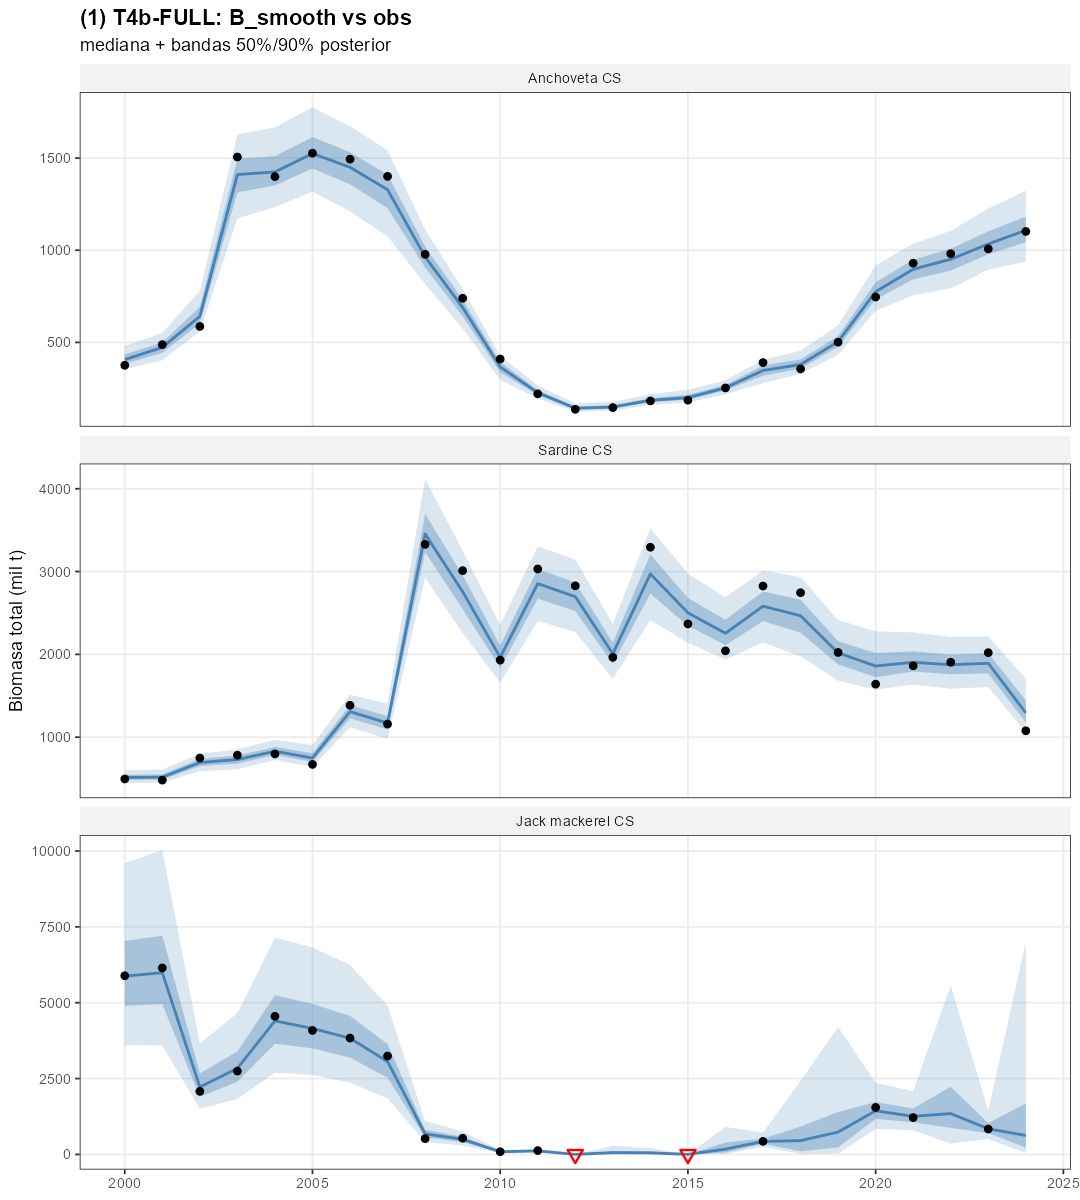
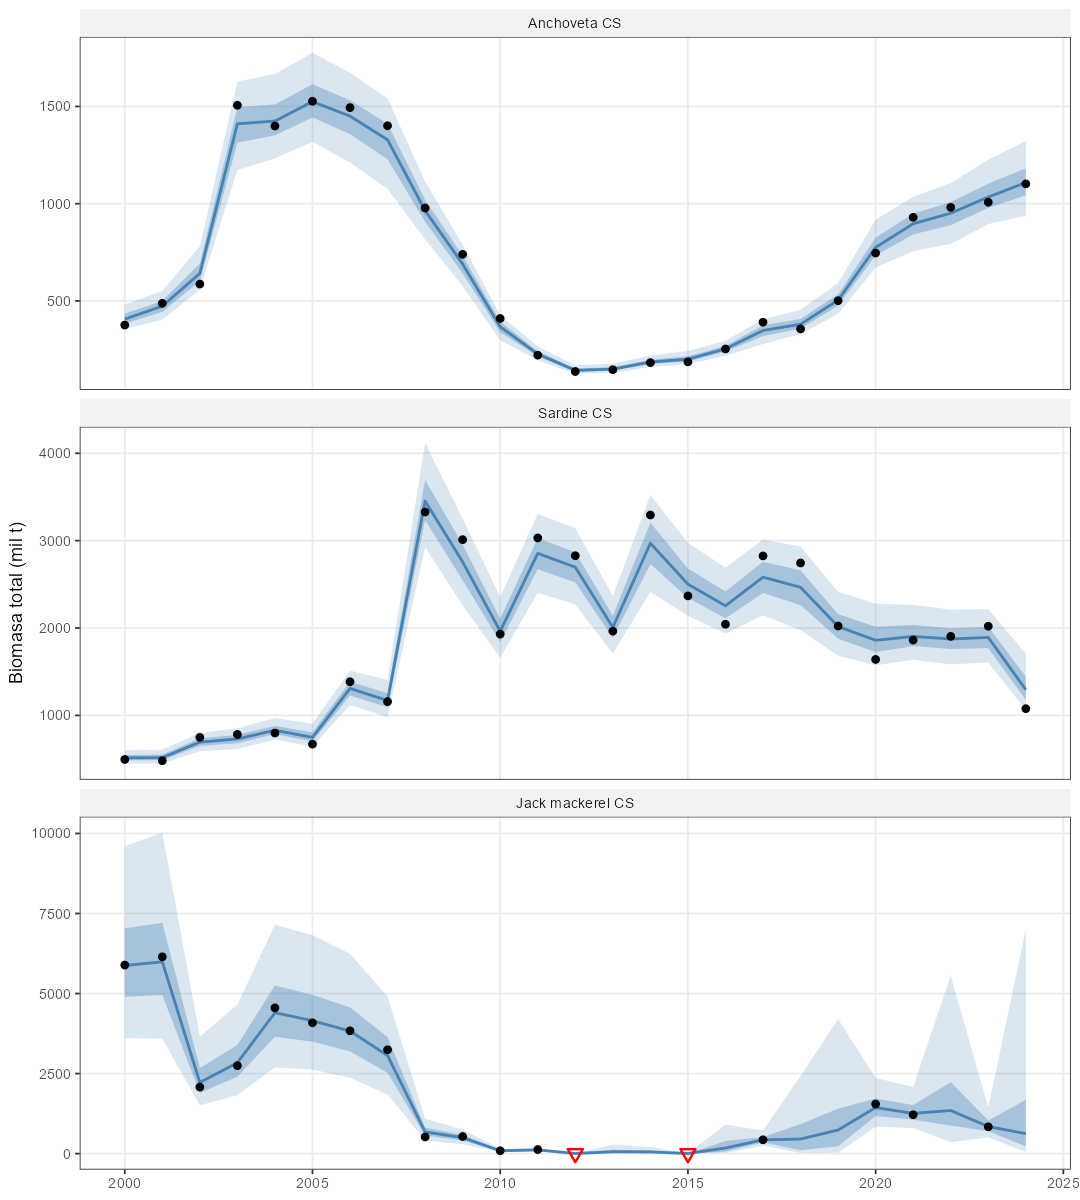
Polish pass: simplify language, unify stock names, restructure Appendix E, add Tabla A.1 priors
[mensaje largo de antes]

diff --git a/paper1/paper1_supplementary_materials.tex b/paper1/paper1_supplementary_materials.tex
@@ -178,7 +178,7 @@ constrained to \([-3, 3]\),\footnote{The bound is a biologically extreme upper
   by roughly \(95\%\).} minimising median absolute percent error (MAPE).
 The structural priors draw on the FishLife meta-analysis for
 intrinsic growth rates (\citeproc{ref-Thorson2020-fishlife}{Thorson 2020}), the IFOP V--X
-stock-assessment informes for anchovy and sardine carrying
+stock-assessment informes for anchoveta and sardine carrying
 capacity (\citeproc{ref-IFOP2024-anchoveta-vx}{Instituto de Fomento Pesquero 2024}, \citeproc{ref-IFOP2022-sardina-vx}{2022}), and the
 range-wide SPRFMO assessment for jack mackerel (\citeproc{ref-SPRFMO2025-sc13}{South Pacific Regional Fisheries Management Organisation 2025}).
 
@@ -191,13 +191,13 @@ range-wide SPRFMO assessment for jack mackerel (\citeproc{ref-SPRFMO2025-sc13}{S
 \toprule
 Stock & $r_s^{0}$ (yr$^{-1}$) & $K_s$ (kt) & $B_{0,s}$ (kt) \\
 \midrule
-Anchovy              & $\log\mathcal{N}(0.6,\,0.25)$   & $\log\mathcal{N}(2{,}200,\,0.15)$ & $\log\mathcal{N}(376,\,0.10)$   \\
+Anchoveta              & $\log\mathcal{N}(0.6,\,0.25)$   & $\log\mathcal{N}(2{,}200,\,0.15)$ & $\log\mathcal{N}(376,\,0.10)$   \\
 Sardine         & $\log\mathcal{N}(0.9,\,0.25)$   & $\log\mathcal{N}(3{,}000,\,0.15)$ & $\log\mathcal{N}(496,\,0.10)$   \\
 Jack mackerel          & $\log\mathcal{N}(0.35,\,0.25)$  & $\log\mathcal{N}(8{,}000,\,0.25)$ & $\log\mathcal{N}(5{,}889,\,0.15)$ \\
 \bottomrule
 \end{tabular}
 \begin{tablenotes}[para,flushleft]\footnotesize
-\item \emph{Notes.} Intrinsic growth-rate priors ($r_s^{0}$) follow Thorson's FishLife meta-analysis. Carrying capacity ($K_s$) for anchovy and sardine is derived from the unfished spawning biomass $B_{D0}$ reported in the IFOP V--X stock-assessment informes (anchovy 2024, sardine 2022), scaled to total biomass; for jack mackerel, $K_s$ is re-scaled from the range-wide SPRFMO 2025 assessment. Initial-biomass priors ($B_{0,s}$) are not virgin biomass: they represent the state-space initial condition at $t=2000$ and are centred at the first observed value in the window (total biomass for the coastal stocks, IFOP acoustic survey for jack mackerel). This empirical-Bayes choice is necessary for identification of the initial state under $N=25$ annual observations; see Online Appendix A.2.
+\item \emph{Notes.} Intrinsic growth-rate priors ($r_s^{0}$) follow Thorson's FishLife meta-analysis. Carrying capacity ($K_s$) for anchoveta and sardine is derived from the unfished spawning biomass $B_{D0}$ reported in the IFOP V--X stock-assessment informes (anchoveta 2024, sardine 2022), scaled to total biomass; for jack mackerel, $K_s$ is re-scaled from the range-wide SPRFMO 2025 assessment. Initial-biomass priors ($B_{0,s}$) are not virgin biomass: they represent the state-space initial condition at $t=2000$ and are centred at the first observed value in the window (total biomass for the coastal stocks, IFOP acoustic survey for jack mackerel). This empirical-Bayes choice is necessary for identification of the initial state under $N=25$ annual observations; see Online Appendix A.2.
 \end{tablenotes}
 \end{threeparttable}
 \end{table}
@@ -217,7 +217,7 @@ only, \(+\log\)CHL only, and joint \(+\)SST\(+\log\)CHL.
 \toprule
 Stock & Base & + SST & + log CHL & + SST and log CHL\\
 \midrule
-Anchovy & 95.9 & 30.8 & 95.1 & 26.6\\
+Anchoveta & 95.9 & 30.8 & 95.1 & 26.6\\
 Sardine & 98.5 & 23.1 & 98.5 & 20.5\\
 Jack mackerel & 44.2 & 44.3 & 49.1 & 48.5\\
 \bottomrule
@@ -226,13 +226,13 @@ Jack mackerel & 44.2 & 44.3 & 49.1 & 48.5\\
 
 No variant brings any of the three stocks below a \(20\%\) MAPE
 threshold. The two coastal stocks benefit from activating SST
-(anchovy: \(95.9\%\to 30.8\%\), sardine: \(98.5\%\to 23.1\%\)), with
+(anchoveta: \(95.9\%\to 30.8\%\), sardine: \(98.5\%\to 23.1\%\)), with
 the joint specification delivering further marginal improvement.
 Jack mackerel hindcast errors remain in the \(44\)--\(49\%\) range across
 all variants, with no shifter distinguishably better than the base.
 
 The point estimates from the joint variant are interpretable for the
-coastal stocks. For anchovy both shifters are negative
+coastal stocks. For anchoveta both shifters are negative
 (\(\rho^{SST} \approx -2.3\), \(\rho^{CHL} \approx -2.3\)); for sardine
 \(\rho^{SST} \approx -2.0\) is negative but \(\rho^{CHL} \approx +2.1\)
 is positive---the opposite sign on CHL across
@@ -263,19 +263,19 @@ one decimal place; jack mackerel priors are centred at zero so that posterior
 identification is driven by the structural likelihood rather than by
 the boundary solution. All priors are independent normal with unit
 standard deviation. We do not impose hierarchical pooling across
-species because \(\rho^{CHL}\) has opposite signs for anchovy and
+species because \(\rho^{CHL}\) has opposite signs for anchoveta and
 sardine---pooling would shrink the two estimates toward a common
 center and erase this ecological distinction.
 
 This prior-elicitation strategy is a form of empirical Bayes: the
-prior centres for anchovy and sardine come from the same \(2000\)--\(2024\)
+prior centres for anchoveta and sardine come from the same \(2000\)--\(2024\)
 biomass series that enters the likelihood. Standard Bayesian practice
 keeps prior and data independent; we accept this departure because
 with \(N=25\) annual observations it is necessary for identification.
 
 We adopt this trade-off deliberately for two reasons. First, the prior
 \(\sigma = 1\) is wide enough that the data move the posterior
-substantially when informative: for anchovy, the posterior of
+substantially when informative: for anchoveta, the posterior of
 \(\rho^{CHL}\) migrates to \(-3.64\), more than one prior standard
 deviation away from the prior centre of \(-2.3\) (see the
 posterior-identification table of the main text for full posterior
@@ -296,7 +296,7 @@ substantive finding, not a numerical artefact.
 \toprule
 Stock & $\mu_{\rho^{SST}}$ & $\sigma_{\rho^{SST}}$ & $\mu_{\rho^{CHL}}$ & $\sigma_{\rho^{CHL}}$ & Source\\
 \midrule
-Anchovy & -2.3 & 1.0 & -2.3 & 1.0 & Joint MLE\\
+Anchoveta & -2.3 & 1.0 & -2.3 & 1.0 & Joint MLE\\
 Sardine & -2.0 & 1.0 & +2.1 & 1.0 & Joint MLE\\
 Jack mackerel & 0.0 & 1.0 & 0.0 & 1.0 & Boundary solution; vague prior\\
 \bottomrule
@@ -410,8 +410,7 @@ observations in \(2012\) and \(2015\)).
 \centering
 \includegraphics[width=0.95\textwidth]{../figs/t4b/t4b_full_residuals.png}
 \caption{Standardised year-level residuals of the full specification by
-stock. The Ljung--Box test of residual autocorrelation does not reject
-the null at conventional levels for any of the three stocks.\label{fig:ppc-residuals}}
+stock.\label{fig:ppc-residuals}}
 \end{figure}
 
 \section{Markov-chain convergence diagnostics}\label{appendix-convergence}
@@ -449,7 +448,7 @@ $\Omega$ (off-diagonal) & 3 & 1.001 & 5,732 & 8,544\\
 \end{tabular}
 \begin{tablenotes}
 \item \textit{Note:} 
-\item Diagnostics are computed from four chains of 2,000 post-warmup iterations. Within each parameter family, the table reports the worst case across the three stocks (or the three off-diagonal entries of Omega): the largest split-Rhat and the smallest bulk- and tail-effective sample sizes. The diagonal of Omega is fixed at one and is therefore excluded. The conventional thresholds are Rhat <= 1.01 and ESS >= 400 for all top-level parameters.
+\item Within each parameter family, entries report the worst case across stocks (or off-diagonal Omega entries): largest Rhat and smallest bulk- and tail-ESS. Omega diagonal (fixed at 1) is excluded. Conventional thresholds: Rhat <= 1.01, ESS >= 400.
 \end{tablenotes}
 \end{threeparttable}
 \end{table}
@@ -483,7 +482,7 @@ the residual noise (combining process and observation noise), \(N=24\)
 lag-one observations, and \(K=3\) regressors.
 
 At posterior medians, the residual noise is \(\sigma_{\text{resid}}=0.28\)
-for anchovy, \(0.25\) for sardine, and \(1.28\) for jack mackerel---roughly \(4.6\)
+for anchoveta, \(0.25\) for sardine, and \(1.28\) for jack mackerel---roughly \(4.6\)
 times higher for jack mackerel than for the coastal stocks. This is the main
 reason the prior dominates the jack mackerel posterior in the full state-space
 fit. Table \ref{tab:appE-power} reports the detectable \(|\rho|_{\min}\)
@@ -511,7 +510,7 @@ evaluated at posterior medians.\label{tab:appE-power}}
 \toprule
 Stock & $\sigma_{\text{resid}}$ & $|\rho_{SST}|_{\min}$ & $|\rho_{\log\text{CHL}}|_{\min}$ & $|\rho_{\text{ENSO}}|_{\min}$ \\
 \midrule
-Anchovy & $0.28$ & $0.33$ & $0.29$ & ---     \\
+Anchoveta & $0.28$ & $0.33$ & $0.29$ & ---     \\
 Sardine & $0.25$ & $0.29$ & $0.26$ & ---     \\
 Jack mackerel & $1.28$ & $1.50$ & $1.32$ & $0.71$ \\
 \bottomrule
@@ -566,7 +565,7 @@ shifter.
 
 \emph{Joint specification.} All three shifters (local SST, local
 \(\log\)\textasciitilde CHL, basin-scale ENSO at lag\textasciitilde1) are estimated simultaneously
-for jack mackerel, holding anchovy and sardine at the main
+for jack mackerel, holding anchoveta and sardine at the main
 specification.
 
 \begin{table}[H]
@@ -588,7 +587,7 @@ Joint specification & Local SST + local $\log$~CHL + ENSO (lag~1) & $1.03$  & $1
 \bottomrule
 \end{tabular}
 \begin{tablenotes}[flushleft]\footnotesize
-\item \emph{Notes.} All entries are $\sigma_{\text{post}}/\sigma_{\text{prior}}$. Anchovy and sardine ratios remain stable at $0.43$--$0.83$ across all configurations.
+\item \emph{Notes.} All entries are $\sigma_{\text{post}}/\sigma_{\text{prior}}$. Anchoveta and sardine ratios remain stable at $0.43$--$0.83$ across all configurations.
 \end{tablenotes}
 \end{threeparttable}
 \end{table}
@@ -597,7 +596,7 @@ All five tests deliver a posterior-to-prior ratio between \(0.94\) and
 \(1.03\) for the jack mackerel shifters. The ratio measures how much the
 data shrink the prior: a value near \(1\) means the posterior is no
 narrower than the prior (no information), and a value below \(1\) means
-the data refine the prior. For comparison, the anchovy and sardine
+the data refine the prior. For comparison, the anchoveta and sardine
 shifters identified in the main text have ratios between \(0.43\) and
 \(0.83\), with posterior medians moving substantially away from their
 prior centres. For jack mackerel, the ratios near unity imply that the
@@ -632,42 +631,42 @@ convention adopted throughout the main text.
 
 This appendix documents the realised inter-sectoral quota cession flow over \(2013\)--\(2024\), the single administrative re-allocation channel admitted by the de jure fractioning regime. We extract assigned, ceded, effective, and captured tonnage by sector for each species--year from the annual SERNAPESCA quota control reports.
 
-Two qualitative facts emerge from the consolidated \(2013\)--\(2024\) series, separated by species pattern: anchovy and sardine in Table \ref{tab:cesiones-anchsard}, jack mackerel in Table \ref{tab:cesiones-jurel}. First, in the anchovy and sardine fisheries the industrial sector cedes a large share of its assigned TAC to artisanal cessionaries in every year of the window: the share transferred ranges from \(12\%\) to \(72\%\) over \(2013\)--\(2017\) and tightens to \(85\%\)--\(\sim\!100\%\) over \(2018\)--\(2024\), scaling with the TAC from \(26\) to \(50\) kt per year in anchovy and \(51\) to \(77\) kt per year in sardine. Second, in the jack mackerel fishery the cession flow is an order of magnitude smaller relative to the assigned TAC---never exceeding \(14\%\) in any year and falling below \(5\%\) in eight of the twelve years---and reverses direction across years.
+Two qualitative facts emerge from the consolidated \(2013\)--\(2024\) series, separated by species pattern: anchoveta and sardine in Table \ref{tab:cesiones-anchsard}, jack mackerel in Table \ref{tab:cesiones-jurel}. First, in the anchoveta and sardine fisheries the industrial sector cedes a large share of its assigned TAC to artisanal cessionaries in every year of the window: the share transferred ranges from \(12\%\) to \(72\%\) over \(2013\)--\(2017\) and tightens to \(85\%\)--\(\sim\!100\%\) over \(2018\)--\(2024\), scaling with the TAC from \(26\) to \(50\) kt per year in anchoveta and \(51\) to \(77\) kt per year in sardine. Second, in the jack mackerel fishery the cession flow is an order of magnitude smaller relative to the assigned TAC---never exceeding \(14\%\) in any year and falling below \(5\%\) in eight of the twelve years---and reverses direction across years.
 
-The post-cession allocation reflects the joint pre-reform fractioning and cession regime rather than the de jure fractioning alone. Whether industrial quota holders would continue to cede \(85\)--\(99\%\) of their anchovy and sardine TACs under a collapsing biomass is an open question. The contracts depend on the productivity of the ceded stocks, and the cession volumes observed over \(2013\)--\(2024\) reflect TAC and price conditions that the projection horizon will not reproduce.
+The post-cession allocation reflects the joint pre-reform fractioning and cession regime rather than the de jure fractioning alone. Whether industrial quota holders would continue to cede \(85\)--\(99\%\) of their anchoveta and sardine TACs under a collapsing biomass is an open question. The contracts depend on the productivity of the ceded stocks, and the cession volumes observed over \(2013\)--\(2024\) reflect TAC and price conditions that the projection horizon will not reproduce.
 
 \begin{table}[H]
 \centering\small
 \renewcommand{\arraystretch}{0.95}
-\caption{Inter-sectoral cession flow, anchovy and sardine, Valparaíso to Los Lagos, $2013$--$2024$. Source: SERNAPESCA quota control reports.\label{tab:cesiones-anchsard}}
+\caption{Inter-sectoral cession flow, anchoveta and sardine, Valparaíso to Los Lagos, $2013$--$2024$. Source: SERNAPESCA quota control reports.\label{tab:cesiones-anchsard}}
 \begin{threeparttable}
 \begin{tabular}{lrrrr}
 \toprule
 Year & Species & IND assigned (kt) & IND cession (kt) & Share ceded \\
 \midrule
-2013 & anchovy &  25.5 & $-3.1$  & 12\% \\
+2013 & anchoveta &  25.5 & $-3.1$  & 12\% \\
 2013 & sardine   & 128.5 & $-31.1$ & 24\% \\
-2014 & anchovy &   7.7 & $-3.9$  & 51\% \\
+2014 & anchoveta &   7.7 & $-3.9$  & 51\% \\
 2014 & sardine   & 104.8 & $-46.6$ & 44\% \\
-2015 & anchovy &   6.3 & $-2.5$  & 40\% \\
+2015 & anchoveta &   6.3 & $-2.5$  & 40\% \\
 2015 & sardine   &  65.2 & $-21.8$ & 33\% \\
-2016 & anchovy &   7.3 & $-2.1$  & 29\% \\
+2016 & anchoveta &   7.3 & $-2.1$  & 29\% \\
 2016 & sardine   &  59.8 & $+15.6$ & 26\% \\
-2017 & anchovy &  12.6 & $-9.0$  & 72\% \\
+2017 & anchoveta &  12.6 & $-9.0$  & 72\% \\
 2017 & sardine   &  72.4 & $-48.9$ & 67\% \\
-2018 & anchovy &  12.8 & $-10.7$ & 84\% \\
+2018 & anchoveta &  12.8 & $-10.7$ & 84\% \\
 2018 & sardine   &  74.2 & $-63.2$ & 85\% \\
-2019 & anchovy &  27.4 & $-25.8$ & 94\% \\
+2019 & anchoveta &  27.4 & $-25.8$ & 94\% \\
 2019 & sardine   &  76.0 & $-69.6$ & 92\% \\
-2020 & anchovy &  38.6 & $-33.3$ & 86\% \\
+2020 & anchoveta &  38.6 & $-33.3$ & 86\% \\
 2020 & sardine   &  67.2 & $-60.9$ & 91\% \\
-2021 & anchovy &  45.3 & $-45.1$ & $\sim\!100\%$ \\
+2021 & anchoveta &  45.3 & $-45.1$ & $\sim\!100\%$ \\
 2021 & sardine   &  76.9 & $-76.5$ & $\sim\!100\%$ \\
-2022 & anchovy &  52.2 & $-50.5$ & 97\% \\
+2022 & anchoveta &  52.2 & $-50.5$ & 97\% \\
 2022 & sardine   &  77.7 & $-71.6$ & 92\% \\
-2023 & anchovy &  39.9 & $-37.1$ & 93\% \\
+2023 & anchoveta &  39.9 & $-37.1$ & 93\% \\
 2023 & sardine   &  63.3 & $-61.7$ & 98\% \\
-2024 & anchovy &  53.8 & $-45.5$ & 85\% \\
+2024 & anchoveta &  53.8 & $-45.5$ & 85\% \\
 2024 & sardine   &  53.9 & $-51.0$ & 95\% \\
 \bottomrule
 \end{tabular}